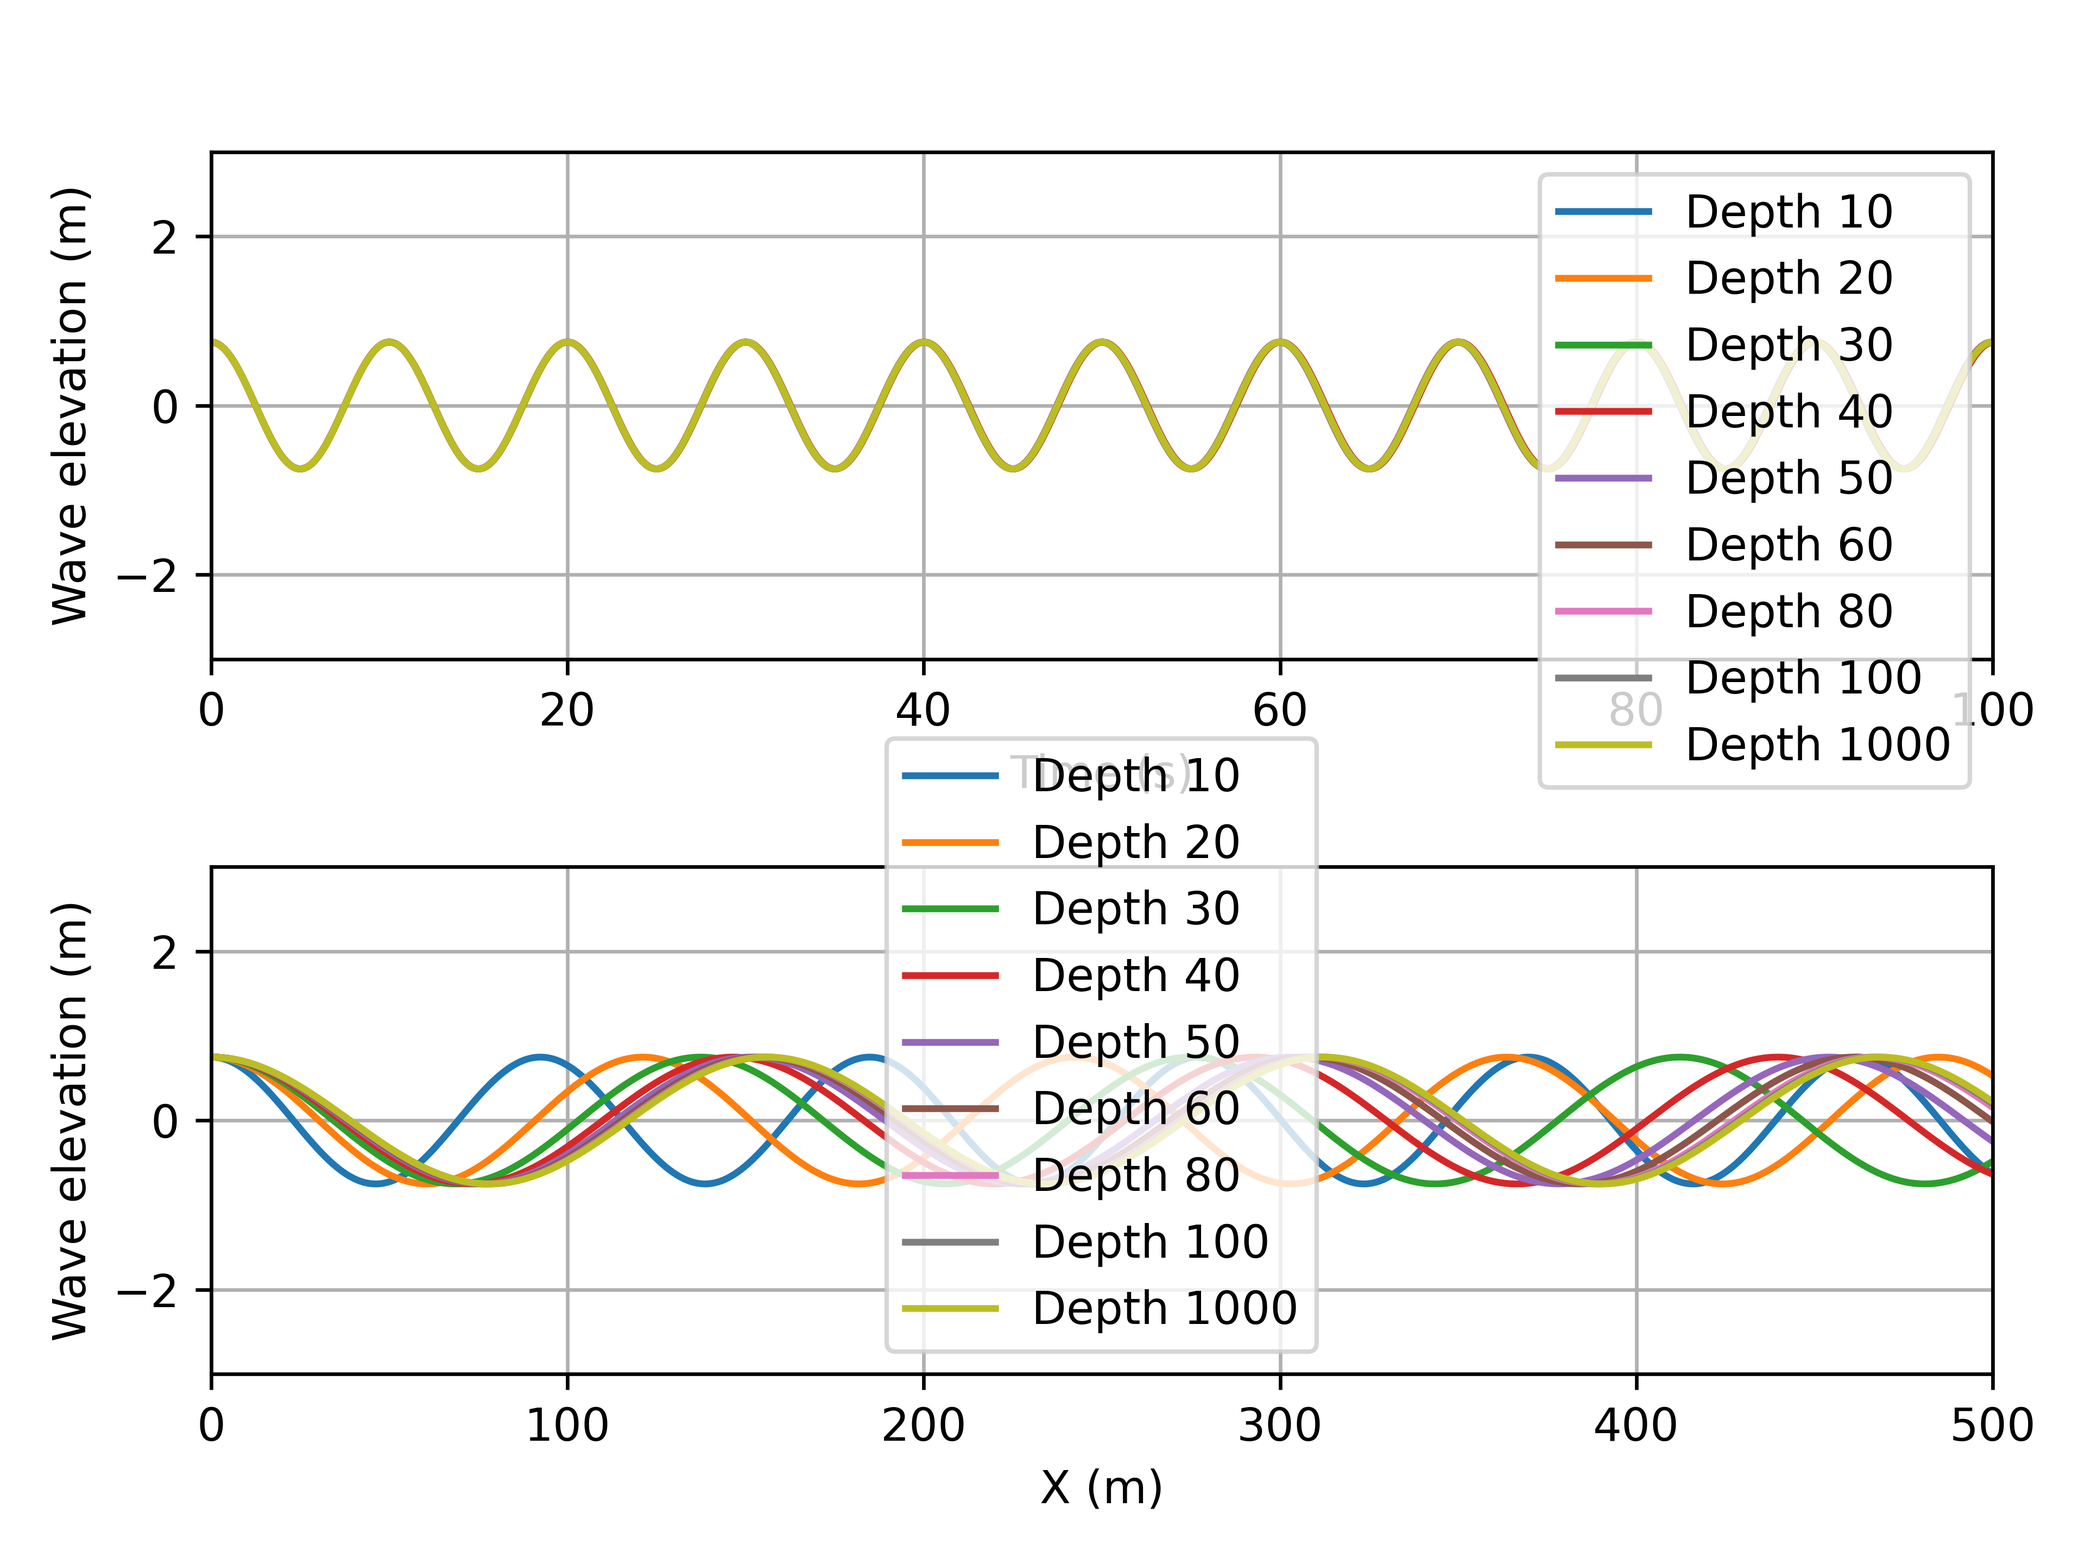
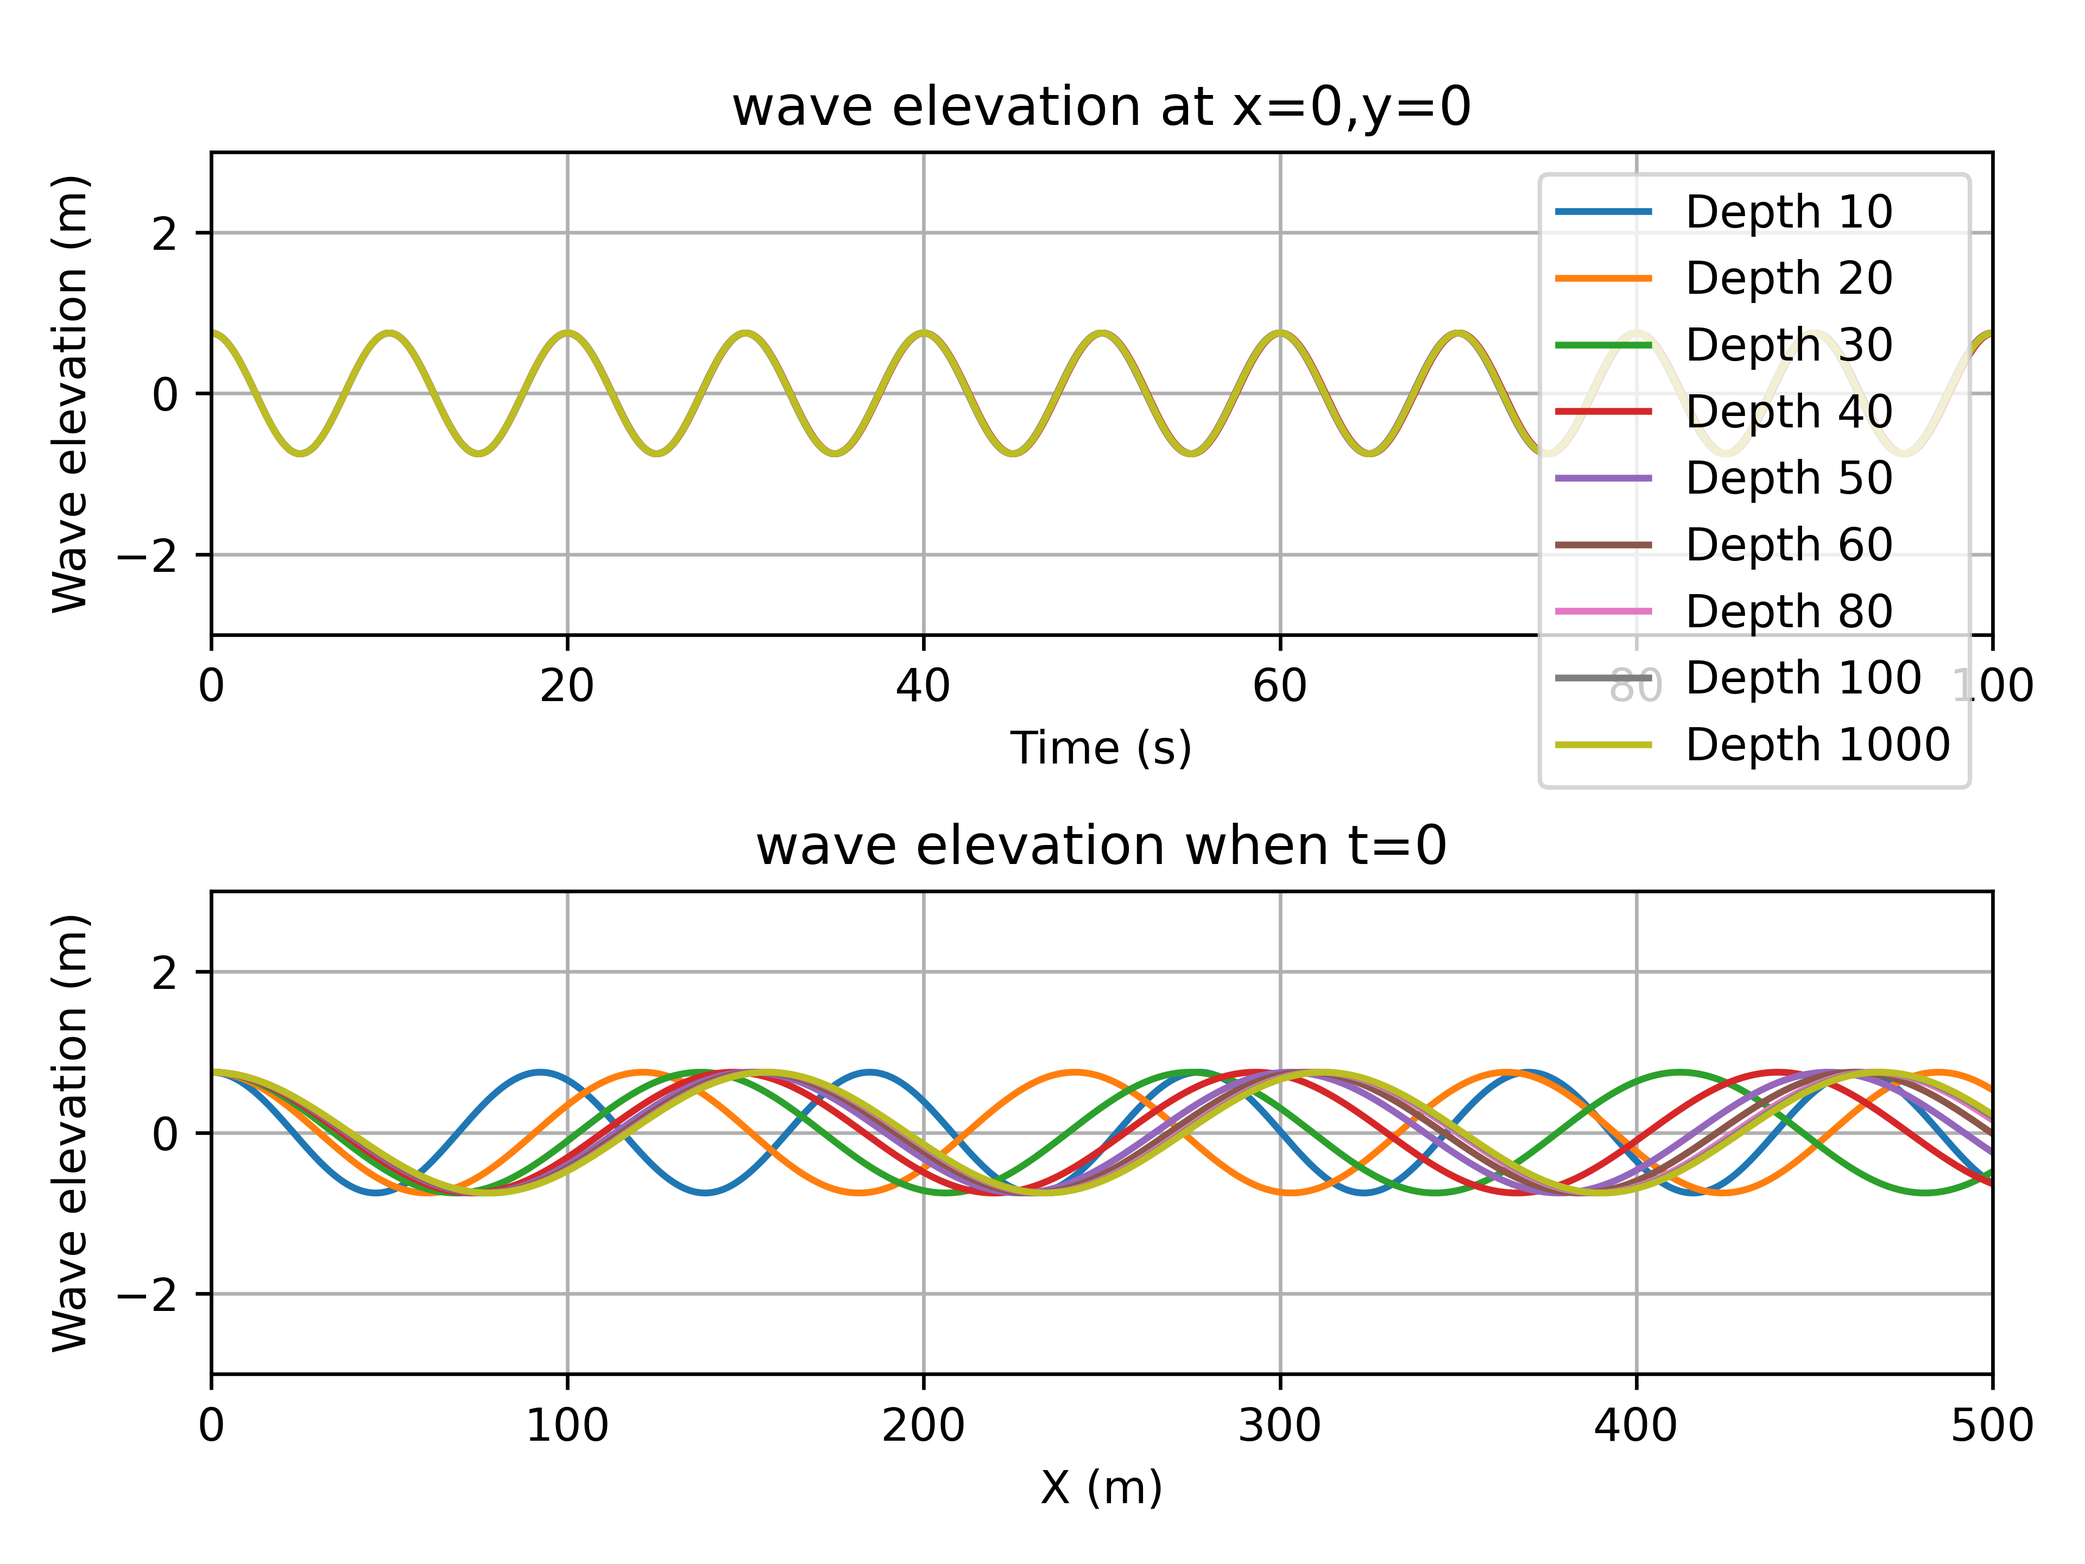
find out the error place
Need time to fixe it

diff --git a/waves/Airywave.py b/waves/Airywave.py
@@ -112,7 +112,7 @@ class Airywave:
         for i in range(len(eta)):
             if position[2] > eta[i]:
                 velocity[i] = 0.0
-  
+
         # if position[2] < eta:
         #     horizontal_velocity = self.pi_h_t * np.cosh(self.wave_k * (z_wheeler + self.water_Depth)) * np.cos(theta) / np.sinh(self.wave_k * self.water_Depth)
         #     vertical_velocity = self.pi_h_t * np.sinh(self.wave_k * (z_wheeler + self.water_Depth)) * np.sin(theta) / np.sinh(self.wave_k * self.water_Depth)
@@ -127,7 +127,7 @@ class Airywave:
         #     print("Warning!! Velocity at " + str(position) + " is very large as " + str(velocity))
         return velocity
 
-    def get_acceleration(self, position, global_time):
+    def get_acceleration_with_time(self, position, global_time):
         """
         :param position: [np.array].shape=(1,3) | Unit: [m]. The position of the point which you want to know the wave acceleration.
         :param global_time: [float] Unit: [s]. The time which you want to know the wave velocity
@@ -136,20 +136,18 @@ class Airywave:
         theta = self.calc_theta(position, global_time)
         eta = self.get_elevation(position, global_time)
         # wheeler's method
-        z_wheeler = (position[2] - self.wave_Height / 2) / (1 + self.wave_Height / 2 / self.water_Depth)
-
-        if position[2] < eta:
-            horizontal_acceleration = self.pi_h_t_2 * np.cosh(self.wave_k * (z_wheeler + self.water_Depth)) * np.sin(
-                theta) / np.sinh(self.wave_k * self.water_Depth)
-            vertical_acceleration = -self.pi_h_t_2 * np.sinh(self.wave_k * (z_wheeler + self.water_Depth)) * np.cos(
-                theta) / np.sinh(self.wave_k * self.water_Depth)
-        else:
-            horizontal_acceleration = 0.0
-            vertical_acceleration = 0.0
-        acceleration = np.array([0.0, 0.0, 0.0])
-        acceleration[0] = horizontal_acceleration * np.cos(self.wave_beta)
-        acceleration[1] = horizontal_acceleration * np.sin(self.wave_beta)
-        acceleration[2] = vertical_acceleration
+        z_streched = (position[2] - self.wave_Height / 2) / (1 + self.wave_Height / 2 / self.water_Depth)
+        # z_streched=position[2]
+        acceleration = np.zeros((len(global_time), 3))
+        acceleration[:, 0] = np.cos(self.wave_beta) * self.pi_h_t_2 * np.cosh(
+            self.wave_k * (z_streched + self.water_Depth)) * np.sin(theta) / np.sinh(self.wave_k * self.water_Depth)
+        acceleration[:, 1] = np.sin(self.wave_beta) * self.pi_h_t_2 * np.cosh(
+            self.wave_k * (z_streched + self.water_Depth)) * np.sin(theta) / np.sinh(self.wave_k * self.water_Depth)
+        acceleration[:, 2] = -self.pi_h_t_2 * np.sinh(self.wave_k * (z_streched + self.water_Depth)) * np.cos(theta) / np.sinh(
+            self.wave_k * self.water_Depth)
+        for i in range(len(global_time)):
+            if position[2] > eta[i]:
+                acceleration[i] = 0.0
         return acceleration
 
     def get_elevations_with_time(self, position, time_list):
@@ -188,9 +186,9 @@ class Airywave:
         velocity[:, 0] = np.cos(self.wave_beta) * self.pi_h_t * np.cosh(self.wave_k * (z_wheeler + self.water_Depth)) * np.cos(theta) / np.sinh(self.wave_k * self.water_Depth)
         velocity[:, 1] = np.sin(self.wave_beta) * self.pi_h_t * np.cosh(self.wave_k * (z_wheeler + self.water_Depth)) * np.cos(theta) / np.sinh(self.wave_k * self.water_Depth)
         velocity[:, 2] =                          self.pi_h_t * np.sinh(self.wave_k * (z_wheeler + self.water_Depth)) * np.sin(theta) / np.sinh(self.wave_k * self.water_Depth)
-        for i in range(len(list_of_point)):
-            if list_of_point[i, 2] > eta[i]:
-                velocity[i] = 0.0
+        # for i in range(len(list_of_point)):
+        #     if list_of_point[i, 2] > eta[i]:
+        #         velocity[i] = 0.0
             # elif np.linalg.norm(velocity[i]) >0.1:
             #     print(np.linalg.norm(velocity[i]))
             #     print(list_of_point[i])
@@ -307,26 +305,26 @@ if __name__ == "__main__":
     water_d = [10, 20, 30, 40, 50, 60, 80, 100, 1000]
 
     time_slice = np.linspace(0, 100, 1000)
-    wave_elevation_with_time = []
+    velocities_with_time = []
 
     space_slice = np.ones((1000, 3))
     x_axis = []
     for posi in range(1000):
         space_slice[posi] = [posi / 2, 0, 0]
         x_axis.append(posi / 2)
-    wave_elevation_with_x = []
+    elevation_with_time = []
     wave_height = 1.5
     wave_period = 10
 
     for item in water_d:
-        wave_elevation_with_time.append(
-            [Airywave(wave_height, wave_period, item, 0).get_elevation(np.array([0, 0, 0]), i) for i in time_slice])
-        wave_elevation_with_x.append(Airywave(wave_height, wave_period, item, 0).get_elevation_at_nodes(space_slice, 0))
+        velocities_with_time.append([Airywave(wave_height, wave_period, item, 0).get_elevation(np.array([0, 0, 0]), i) for i in time_slice])
+        elevation_with_time.append(Airywave(wave_height, wave_period, item, 0).get_elevation_at_nodes(space_slice, 0))
     plt.figure()
 
     ax = plt.subplot(gs[0, 0])
+    plt.title("wave elevation at x=0,y=0")
     for item in water_d:
-        plt.plot(time_slice, wave_elevation_with_time[water_d.index(item)], label="Depth " + str(item))
+        plt.plot(time_slice, velocities_with_time[water_d.index(item)], label="Depth " + str(item))
     plt.xlabel("Time (s)")
     plt.ylabel("Wave elevation (m)")
     plt.xlim(0, 100)
@@ -335,20 +333,77 @@ if __name__ == "__main__":
     plt.legend()
 
     ax = plt.subplot(gs[1, 0])
+    plt.title("wave elevation when t=0")
     for item in water_d:
-        plt.plot(x_axis, wave_elevation_with_x[water_d.index(item)], label="Depth " + str(item))
+        plt.plot(x_axis, elevation_with_time[water_d.index(item)], label="Depth " + str(item))
     plt.xlabel("X (m)")
     plt.ylabel("Wave elevation (m)")
     plt.xlim(0, 500)
     plt.ylim(-3, 3)
     plt.grid(True)
-    plt.legend()
+    # plt.legend()
 
     plt.tight_layout()
     plt.savefig('./figures/wave_shape.png', dpi=600)
     # plt.show()
 
-    ## validation 3 shows the wave velocity and acceleration
+
+    ## validation 3 shows the wave velocity  according to time and space
+    #TODO: error place
+    g1 = 2
+    g2 = 1
+    gs = gridspec.GridSpec(g1, g2)  # Create 1x2 sub plots
+
+    water_d = [10, 20, 30, 40, 50, 60, 80, 100, 1000]
+
+    time_slice = np.linspace(0, 100, 1000)
+    velocities_with_time = []
+    elevation_with_time = []
+    space_slice = np.ones((1000, 3))
+    x_axis = []
+    for posi in range(1000):
+        space_slice[posi] = [posi / 2, 0, 0]
+        x_axis.append(posi / 2)
+
+    wave_height = 1.5
+    wave_period = 10
+
+    for item in water_d:
+        velocities_with_time.append(np.linalg.norm(Airywave(wave_height, wave_period, item, 0).get_velocity_with_time(np.array([0, 0, 0]), time_slice) ,axis=1))
+        elevation_with_time.append( np.linalg.norm(Airywave(wave_height, wave_period, item, 0).get_acceleration_with_time(np.array([0, 0, 0]), time_slice),axis=1))
+    plt.figure()
+
+    ax = plt.subplot(gs[0, 0])
+    plt.title("wave velocity at x=0,y=0")
+    for item in water_d:
+        plt.plot(time_slice, velocities_with_time[water_d.index(item)], label="Depth " + str(item))
+    plt.xlabel("Time (s)")
+    plt.ylabel("Wave velocity (m)")
+    plt.xlim(0, 100)
+    plt.ylim(-3, 3)
+    plt.grid(True)
+    plt.legend()
+
+    ax = plt.subplot(gs[1, 0])
+    plt.title("wave velocity when x=0,y=0")
+    for item in water_d:
+        plt.plot(x_axis, elevation_with_time[water_d.index(item)], label="Depth " + str(item))
+    plt.xlabel("X (m)")
+    plt.ylabel("Time (s)")
+    plt.xlim(0, 500)
+    plt.ylim(-3, 3)
+    plt.grid(True)
+    # plt.legend()
+
+    plt.tight_layout()
+    plt.savefig('./figures/wave_velocity.png', dpi=600)
+    # plt.show()
+
+
+
+
+
+    ## validation 4 shows the wave velocity and acceleration
     plt.figure()
 
     wave1 = Airywave(5, 8, 600, 0, 0)

diff --git a/waves/irregularwaves.py b/waves/irregularwaves.py
@@ -24,7 +24,7 @@ class irregular_sea:
         self.tp=peak_period
         self.hs=significant_wave_height
         self.list_of_waves=[]
-        time_max=3600*2  # 3h, We assume the simulations will not exceed 3h.
+        time_max=3600  # 3h, We assume the simulations will not exceed 3h.
         fre_max=3        # we assume the highest eigenfrequency of studied structure is below 3 Hz.
         d_fre=2 * np.pi / time_max                # get the resolution for frequence
         fre_range=np.arange(d_fre,fre_max,d_fre)
@@ -39,7 +39,8 @@ class irregular_sea:
         s0 = 'The environment is irregular waves condition and the specific parameters are:\n'
         s1 = 'significant wave height = ' + str(self.hs) + ' m\n'
         s2 = 'peak period= ' + str(self.tp) + ' s\n'
-        S = s0 + s1 + s2
+        s3 = 'Numver of wave components is '+str(len(self.list_of_waves))
+        S = s0 + s1 + s2+s3
         return S
 
     def get_elevations_with_time(self, position, time_list):
@@ -65,7 +66,7 @@ class irregular_sea:
         for index, each_wave in enumerate(self.list_of_waves):
             waves_velocities[index]=each_wave.get_velocity_with_time(position,time_list)
         return np.sum(waves_velocities,axis=0)
-    
+
     def get_elevation_at_nodes(self, list_of_point, global_time):
         """
         Public function.\n
@@ -117,7 +118,7 @@ if __name__ == "__main__":
 
     sea_state=irregular_sea(4,8,3,600,0)
     time_max = 3600 # [s]
-    dt=0.1
+    dt=1
     time_frame=np.arange(0, time_max, dt)
     print(sea_state)
 
@@ -135,67 +136,72 @@ if __name__ == "__main__":
 
     ax = plt.subplot(gs[1, 0])
     plt.title("velocity with time at position x=0,y=0")
-    plt.plot(time_frame, sea_state.get_velocity_with_time(np.array([0,0,0]),time_frame))
+    k=sea_state.get_velocity_with_time(np.array([0,0,0]),time_frame)
+    print(k.shape)
+    print(max(np.linalg.norm(k,axis=1)))
+    plt.plot(time_frame, np.linalg.norm(k,axis=1))
+
+    plt.plot(time_frame, np.linalg.norm(sea_state.get_velocity_with_time(np.array([0,0,0.1]),time_frame),axis=1))
     plt.xlabel("time (s)")
     plt.ylabel("velocity (m/s)")
     plt.xlim(0, 3600)
-    plt.ylim(-5, 5)
+    plt.ylim(-2, 2)
     plt.tight_layout()
     print("hs is "+ str(4*np.var(sea_state.get_elevations_with_time(np.array([0,0,0]),time_frame))))
 
-    fig = plt.figure()
-    ax = fig.gca(projection='3d')
-    # time_frame=np.arange(1000,4600,dt)
-    # yita=sea_state.get_elevations_with_time([0,0,0],time_frame)
-    # print(np.std(yita))
-    # plt.plot(time_frame,yita)
-    x_axis=np.array(np.arange(-10,10,1.1)).tolist()
-    position=np.zeros((10*len(x_axis),3))
-    for i in range(10):
-        for index, item in enumerate(x_axis):
-            position[i*len(x_axis)+index]=[6*i,6*i,-float(item)/2]
-    # print(position.shape)
-    # print(position)
-    velocity=sea_state.get_velocity_at_nodes(position, 0)
-    velocity_mag=[]
-    for each in velocity:
-        velocity_mag.append(np.linalg.norm(each))
-    print("max velocity is " +str(max(velocity_mag)) + " m/s")
-    print("and the position is "+str(position[velocity_mag.index(max(velocity_mag))]))
-    # Flatten and normalize
-    velocity_mag=np.array(velocity_mag)
-    normal_velo = (velocity_mag.ravel() - velocity_mag.min()) / velocity_mag.ptp()
-    # print(normal_velo)
-    # Repeat for each body line and two head lines
-    c = np.concatenate((normal_velo, np.repeat(normal_velo, 2)))
-    # Colormap
-    c = plt.cm.summer(c)
-    q=ax.quiver(position[:,0],
-                position[:,1],
-                position[:,2],
-                velocity[:,0],
-                velocity[:,1],
-                velocity[:,2],
-                colors=c,
-                normalize=False,
-                )
-    # q.set_array(np.linspace(0,2,10))
-    fig.colorbar(q)
+    # fig = plt.figure()
+    # ax = fig.gca(projection='3d')
+    # # time_frame=np.arange(1000,4600,dt)
+    # # yita=sea_state.get_elevations_with_time([0,0,0],time_frame)
+    # # print(np.std(yita))
+    # # plt.plot(time_frame,yita)
+    # x_axis=np.array(np.arange(-10,10,1.1)).tolist()
+    # position=np.zeros((10*len(x_axis),3))
+    # for i in range(10):
+    #     for index, item in enumerate(x_axis):
+    #         position[i*len(x_axis)+index]=[6*i,6*i,-float(item)/2]
+    # # print(position.shape)
+    # # print(position)
+    # velocity=sea_state.get_velocity_at_nodes(position, 0)
+    # velocity_mag=[]
+    # for each in velocity:
+    #     velocity_mag.append(np.linalg.norm(each))
+    # print("max velocity is " +str(max(velocity_mag)) + " m/s")
+    # print("and the position is "+str(position[velocity_mag.index(max(velocity_mag))]))
+    # # Flatten and normalize
+    # velocity_mag=np.array(velocity_mag)
+    # normal_velo = (velocity_mag.ravel() - velocity_mag.min()) / velocity_mag.ptp()
+    # # print(normal_velo)
+    # # Repeat for each body line and two head lines
+    # c = np.concatenate((normal_velo, np.repeat(normal_velo, 2)))
+    # # Colormap
+    # c = plt.cm.summer(c)
+    # q=ax.quiver(position[:,0],
+    #             position[:,1],
+    #             position[:,2],
+    #             velocity[:,0],
+    #             velocity[:,1],
+    #             velocity[:,2],
+    #             colors=c,
+    #             normalize=False,
+    #             )
+    # # q.set_array(np.linspace(0,2,10))
+    # fig.colorbar(q)
 
-    for i in range(60):
-        position=np.zeros((len(x_axis),3))
-        for index, item in enumerate(x_axis):
-            position[index]=[item,i,0]
-        yita=sea_state.get_elevation_at_nodes(position, 0)
-        ax.plot(x_axis,[i]*len(x_axis),yita,color="b")
+    # for i in range(60):
+    #     position=np.zeros((len(x_axis),3))
+    #     for index, item in enumerate(x_axis):
+    #         position[index]=[item,i,0]
+    #     yita=sea_state.get_elevation_at_nodes(position, 0)
+    #     ax.plot(x_axis,[i]*len(x_axis),yita,color="b")
 
-    # plt.plot(x_axis,yita)
-    ax.set_title("JONSWAP sea condition Hs=4m, Tp=8s r=3, t="+str(0)+"s")
-    ax.set_xlabel('X')
-    ax.set_ylabel('Y')
-    ax.set_zlabel('Z')
-    ax.set_xlim(0, 60)
-    ax.set_ylim(0, 60)
-    ax.set_zlim(-30, 5)
-    plt.savefig('./figures/waves.png', dpi=300)
+    # # plt.plot(x_axis,yita)
+    # ax.set_title("JONSWAP sea condition Hs=4m, Tp=8s r=3, t="+str(0)+"s")
+    # ax.set_xlabel('X')
+    # ax.set_ylabel('Y')
+    # ax.set_zlabel('Z')
+    # ax.set_xlim(0, 60)
+    # ax.set_ylim(0, 60)
+    # ax.set_zlim(-30, 5)
+    # plt.savefig('./figures/waves.png', dpi=300)
     plt.show()
